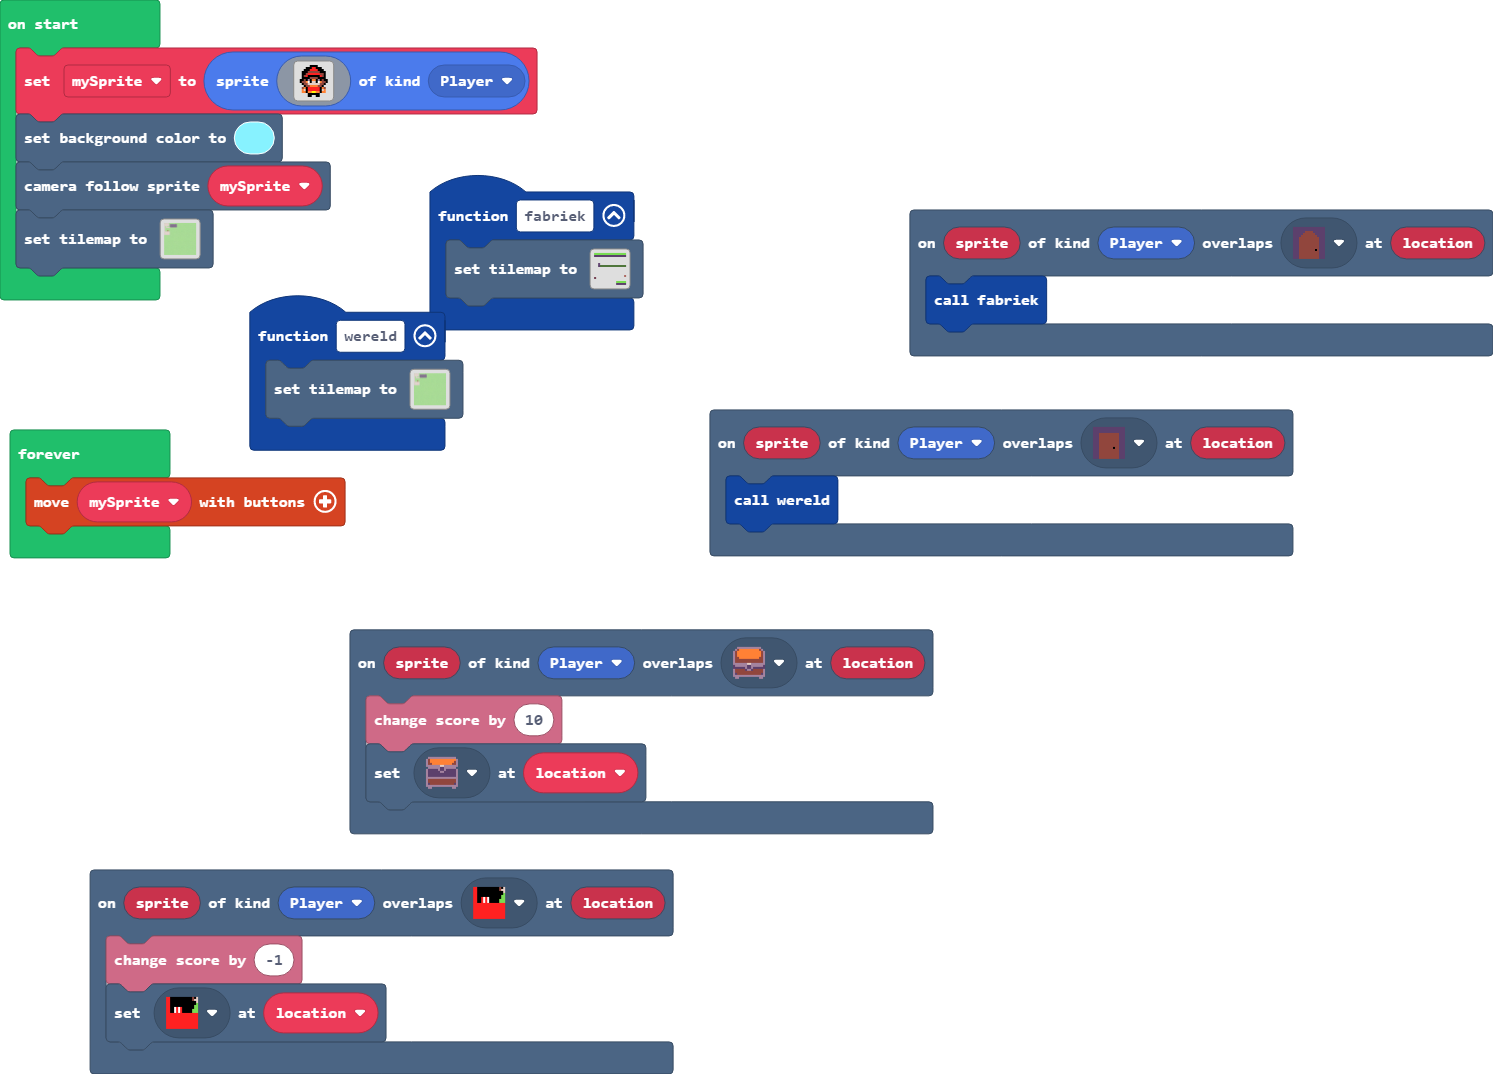
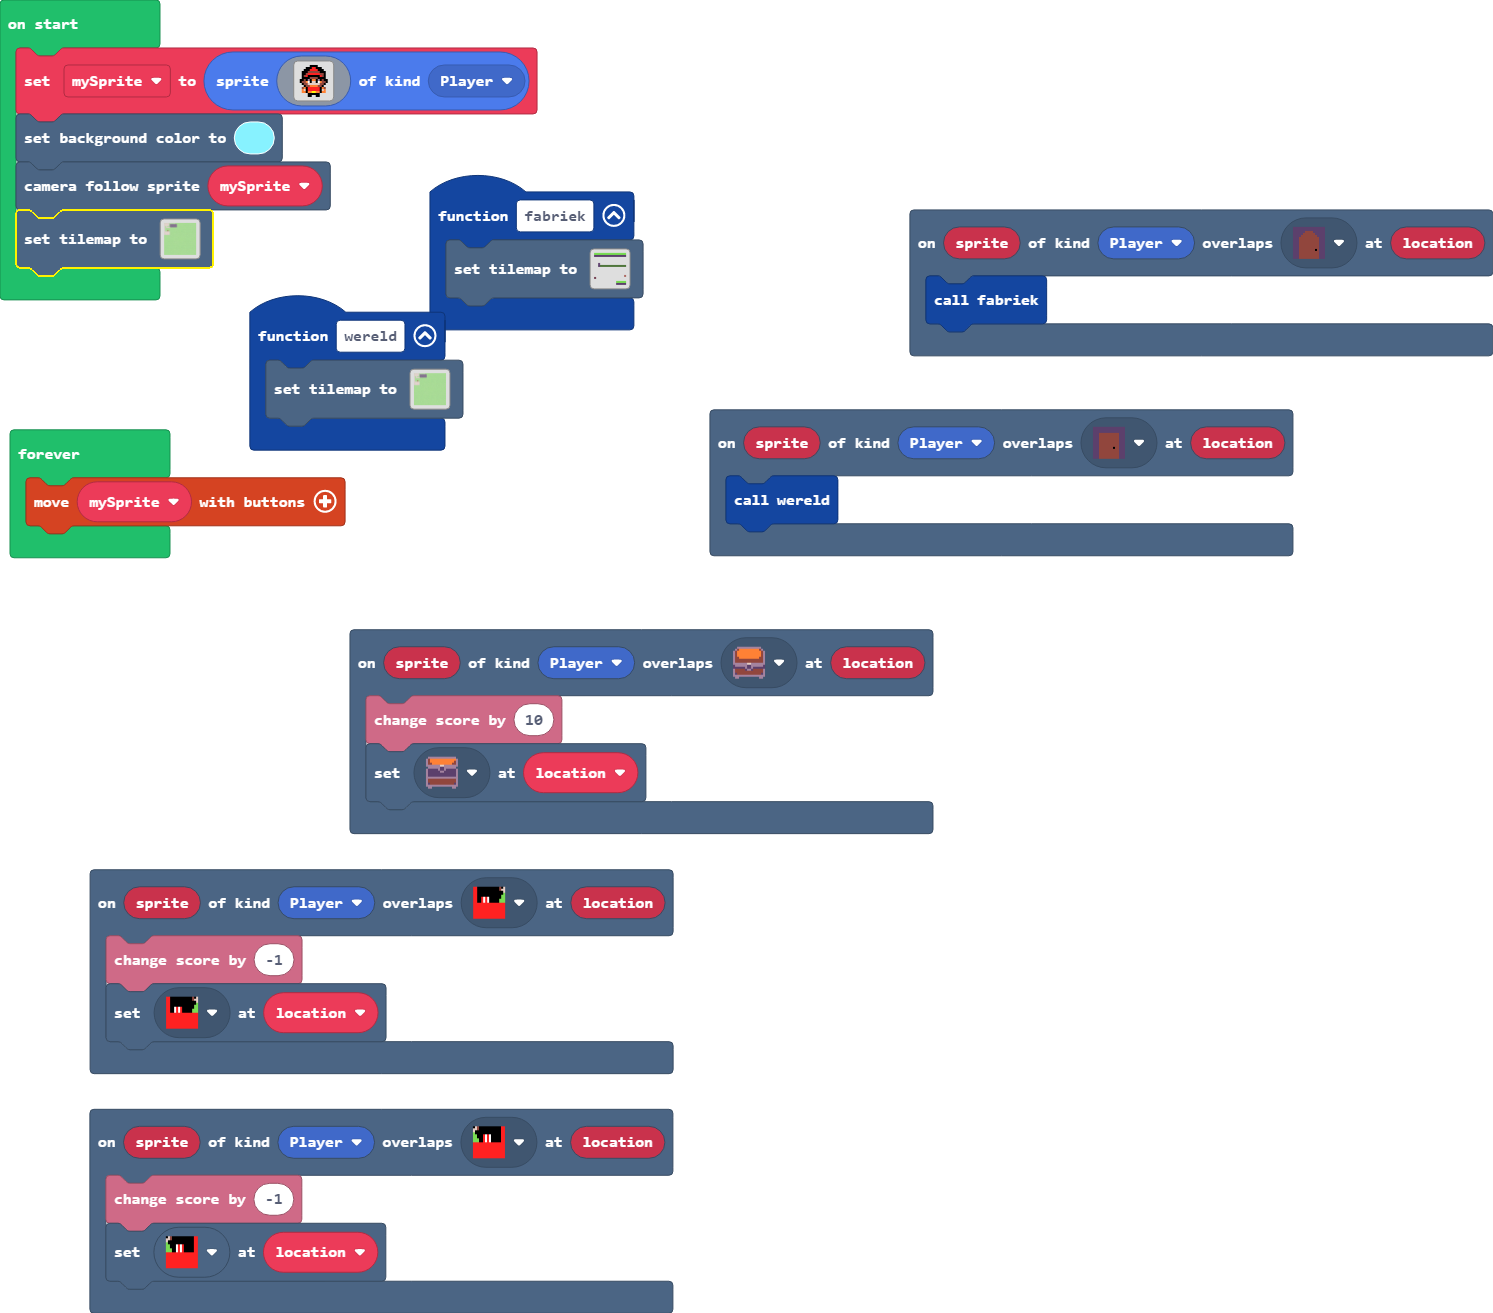
Update main.blocks, main.ts, tilemap.g.jres, tilemap.g.ts

diff --git a/tilemap.g.ts b/tilemap.g.ts
@@ -64,6 +64,10 @@ namespace myTiles {
     export const tile4 = image.ofBuffer(hex``);
     //% fixedInstance jres blockIdentity=images._tile
     export const tile31 = image.ofBuffer(hex``);
+    //% fixedInstance jres blockIdentity=images._tile
+    export const tile32 = image.ofBuffer(hex``);
+    //% fixedInstance jres blockIdentity=images._tile
+    export const tile33 = image.ofBuffer(hex``);
 
     helpers._registerFactory("tilemap", function(name: string) {
         switch(helpers.stringTrim(name)) {
@@ -246,59 +250,6 @@ namespace myTiles {
 . . . . . . . . . . . . . . . . 
 . . . . . . . . . . . . . . . . 
 `, [myTiles.transparency16], TileScale.Sixteen);
-            case "level3":
[1 lines of base64/hex data omitted]
-..................................................
-..................................................
-..................................................
-..................................................
-..................................................
-..................................................
-..................................................
-..................................................
-..................................................
-..................................................
-..................................................
-..................................................
-..................................................
-..................................................
-..................................................
-..................................................
-..................................................
-..................................................
-..................................................
-..................................................
-..................................................
-..................................................
-..................................................
-..................................................
-..................................................
-..................................................
-..................................................
-..................................................
-..................................................
-..................................................
-..................................................
-..................................................
-..................................................
-..................................................
-..................................................
-..................................................
-..................................................
-..................................................
-..................................................
-..................................................
-..................................................
-..................................................
-..................................................
-..................................................
-..................................................
-..................................................
-..................................................
-..................................................
-..................................................
-..................................................
-`, [myTiles.transparency16,sprites.castle.tileGrass2,sprites.castle.tilePath4,sprites.castle.tilePath1,sprites.castle.tilePath6,sprites.castle.tilePath2,sprites.castle.tilePath3,sprites.castle.tilePath7,sprites.castle.tilePath9,sprites.castle.tilePath8,sprites.castle.tilePath5,myTiles.tile13,myTiles.tile22,myTiles.tile24,myTiles.tile20,myTiles.tile19,myTiles.tile21,myTiles.tile18,myTiles.tile31], TileScale.Sixteen);
             case "level7":
             case "level7":return tiles.createTilemap(hex`1000100000000000000000000000000000000000000000000000000000000000000000000000000000000000000000000000000000000000000000000000000000000000000000000000000000000000000000000000000000000000000000000000000000000000000000000000000000000000000000000000000000000000000000000000000000000000000000000000000000000000000000000000000000000000000000000000000000000000000000000000000000000000000000000000000000000000000000000000000000000000000000000000000000000000000000000000000000000000000000000000000000000000000000000000000000000000`, img`
 . . . . . . . . . . . . . . . . 
@@ -337,6 +288,78 @@ namespace myTiles {
 . . . . . . . . . . . . . . . . 
 . . . . . . . . . . . . . . . . 
 `, [myTiles.transparency16], TileScale.Sixteen);
+            case "level9":
+            case "level9":return tiles.createTilemap(hex`1000100000000000000000000000000000000000000000000000000000000000000000000000000000000000000000000000000000000000000000000000000000000000000000000000000000000000000000000000000000000000000000000000000000000000000000000000000000000000000000000000000000000000000000000000000000000000000000000000000000000000000000000000000000000000000000000000000000000000000000000000000000000000000000000000000000000000000000000000000000000000000000000000000000000000000000000000000000000000000000000000000000000000000000000000000000000000`, img`
+. . . . . . . . . . . . . . . . 
+. . . . . . . . . . . . . . . . 
+. . . . . . . . . . . . . . . . 
+. . . . . . . . . . . . . . . . 
+. . . . . . . . . . . . . . . . 
+. . . . . . . . . . . . . . . . 
+. . . . . . . . . . . . . . . . 
+. . . . . . . . . . . . . . . . 
+. . . . . . . . . . . . . . . . 
+. . . . . . . . . . . . . . . . 
+. . . . . . . . . . . . . . . . 
+. . . . . . . . . . . . . . . . 
+. . . . . . . . . . . . . . . . 
+. . . . . . . . . . . . . . . . 
+. . . . . . . . . . . . . . . . 
+. . . . . . . . . . . . . . . . 
+`, [myTiles.transparency16], TileScale.Sixteen);
+            case "level3":
[1 lines of base64/hex data omitted]
+..................................................
+..................................................
+..................................................
+..................................................
+..................................................
+..................................................
+..................................................
+..................................................
+..................................................
+..................................................
+..................................................
+..................................................
+..................................................
+..................................................
+..................................................
+..................................................
+..................................................
+..................................................
+..................................................
+..................................................
+..................................................
+..................................................
+..................................................
+..................................................
+..................................................
+..................................................
+..................................................
+..................................................
+..................................................
+..................................................
+..................................................
+..................................................
+..................................................
+..................................................
+..................................................
+..................................................
+..................................................
+..................................................
+..................................................
+..................................................
+..................................................
+..................................................
+..................................................
+..................................................
+..................................................
+..................................................
+..................................................
+..................................................
+..................................................
+..................................................
+`, [myTiles.transparency16,sprites.castle.tileGrass2,sprites.castle.tilePath4,sprites.castle.tilePath1,sprites.castle.tilePath6,sprites.castle.tilePath2,sprites.castle.tilePath3,sprites.castle.tilePath7,sprites.castle.tilePath9,sprites.castle.tilePath8,sprites.castle.tilePath5,myTiles.tile13,myTiles.tile22,myTiles.tile24,myTiles.tile20,myTiles.tile19,myTiles.tile21,myTiles.tile18,myTiles.tile33], TileScale.Sixteen);
         }
         return null;
     })
@@ -405,6 +428,10 @@ namespace myTiles {
             case "tile4":return tile4;
             case "tile44":
             case "tile31":return tile31;
+            case "tile45":
+            case "tile32":return tile32;
+            case "tile46":
+            case "tile33":return tile33;
         }
         return null;
     })

diff --git a/main.ts b/main.ts
@@ -11,6 +11,10 @@ scene.onOverlapTile(SpriteKind.Player, assets.tile`tile37`, function (sprite, lo
 function fabriek () {
     tiles.setTilemap(tilemap`level4`)
 }
+scene.onOverlapTile(SpriteKind.Player, assets.tile`tile32`, function (sprite, location) {
+    info.changeScoreBy(-1)
+    tiles.setTileAt(location, assets.tile`tile45`)
+})
 scene.onOverlapTile(SpriteKind.Player, assets.tile`tile43`, function (sprite, location) {
     info.changeScoreBy(10)
     tiles.setTileAt(location, assets.tile`tile`)
